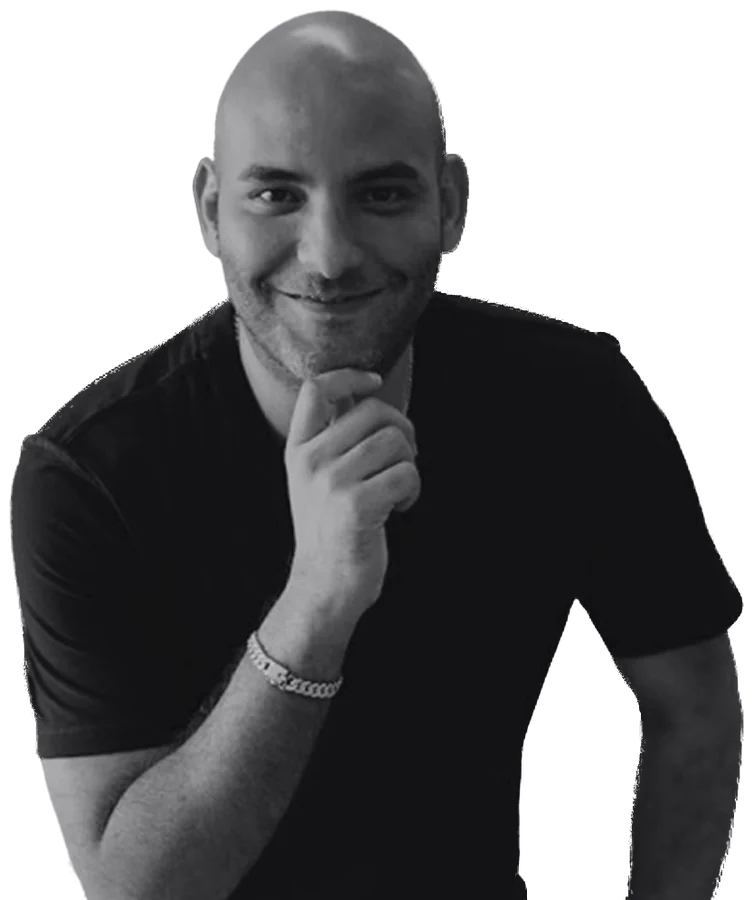
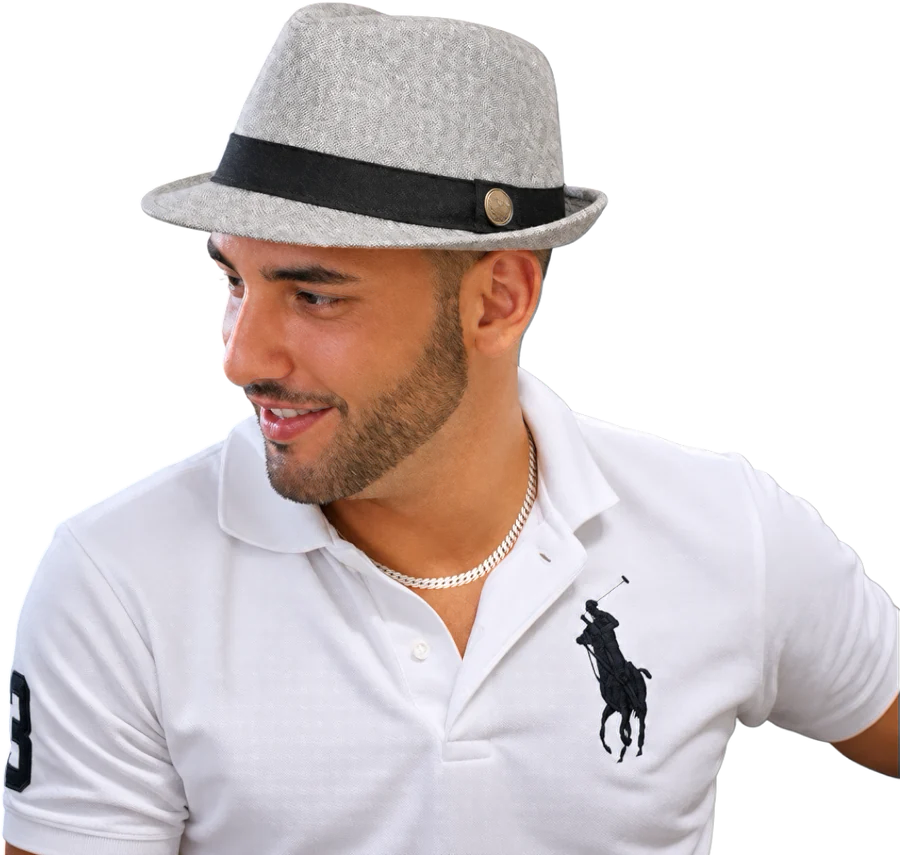
New hero portrait from Figma; mobile hero keeps photo whole with tags below
Claude-Session: https://claude.ai/code/session_0198CMun1pC5cEnRJG5tJ95j

diff --git a/css/site.css b/css/site.css
@@ -589,7 +589,8 @@ body::before {
 
 /* Hero */
 .eyebrow { border-radius: 8px; border-color: var(--line); background: transparent; }
-.portrait { aspect-ratio: 755 / 900; }
+.portrait { aspect-ratio: 900 / 855; }
+.hero-visual { width: min(470px, 100%); }
 .portrait img {
 	-webkit-mask-image: none; mask-image: none;
 	border-radius: 0 0 24px 24px;
@@ -660,3 +661,10 @@ body::before {
 .contact-email { background-image: linear-gradient(var(--text), var(--text)); }
 @media (max-width: 600px) { .contact-inner { padding: 48px 18px; } .section { padding-top: 88px; } }
 :root[data-theme] .portrait-orb { box-shadow: none; }
+
+/* Mobile hero: keep the photo whole and unobstructed; tags sit in a row under it */
+@media (max-width: 600px) {
+	.hero-visual { width: 100%; max-width: 380px; display: flex; flex-wrap: wrap; justify-content: center; gap: 8px; }
+	.hero-visual .portrait { flex: 0 0 100%; margin-bottom: 10px; }
+	.hero-visual .float-chip { position: static; animation: none; transform: none; }
+}

diff --git a/index.html b/index.html
@@ -85,7 +85,7 @@
             <div class="hero-visual load-in" style="--d:3">
                 <div class="portrait tilt">
                     <span class="portrait-orb" aria-hidden="true"></span>
-                    <img src="images/portrait.webp" width="755" height="900" alt="Portrait of Sofiane Benslimane">
+                    <img src="images/portrait.webp" width="900" height="855" alt="Portrait of Sofiane Benslimane">
                 </div>
                 <div class="float-chip chip-a"><i class="fas fa-pen-nib" aria-hidden="true"></i> UX/UI Design</div>
                 <div class="float-chip chip-d"><i class="fas fa-magic" aria-hidden="true"></i> Creative AI Automation</div>
